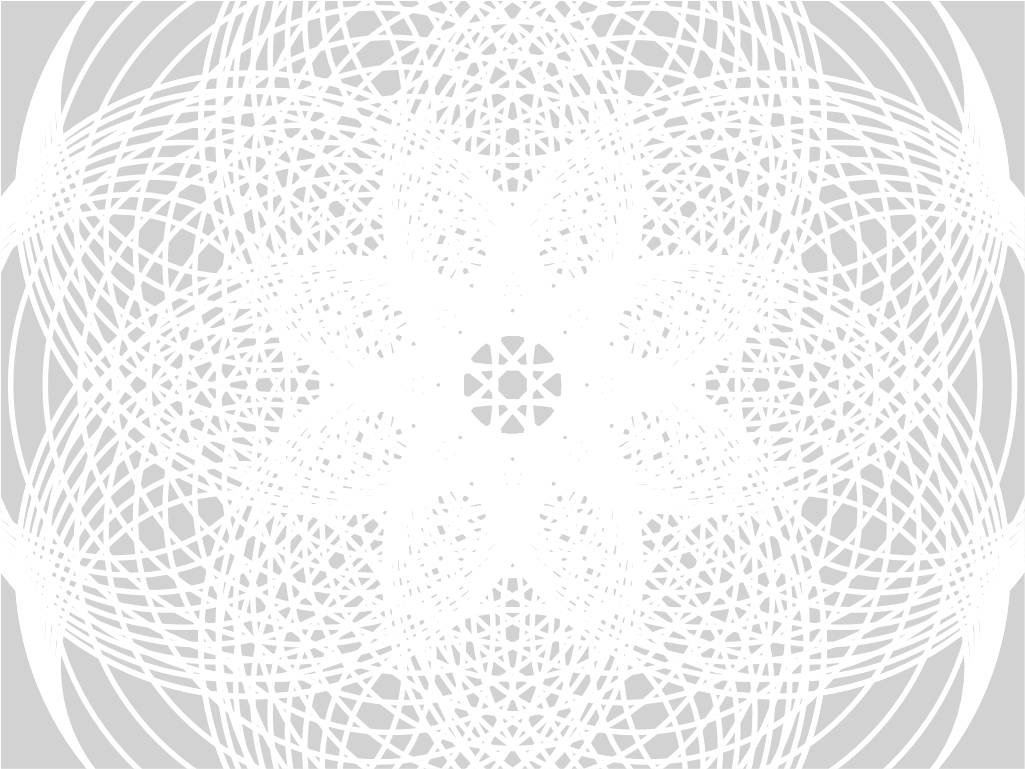
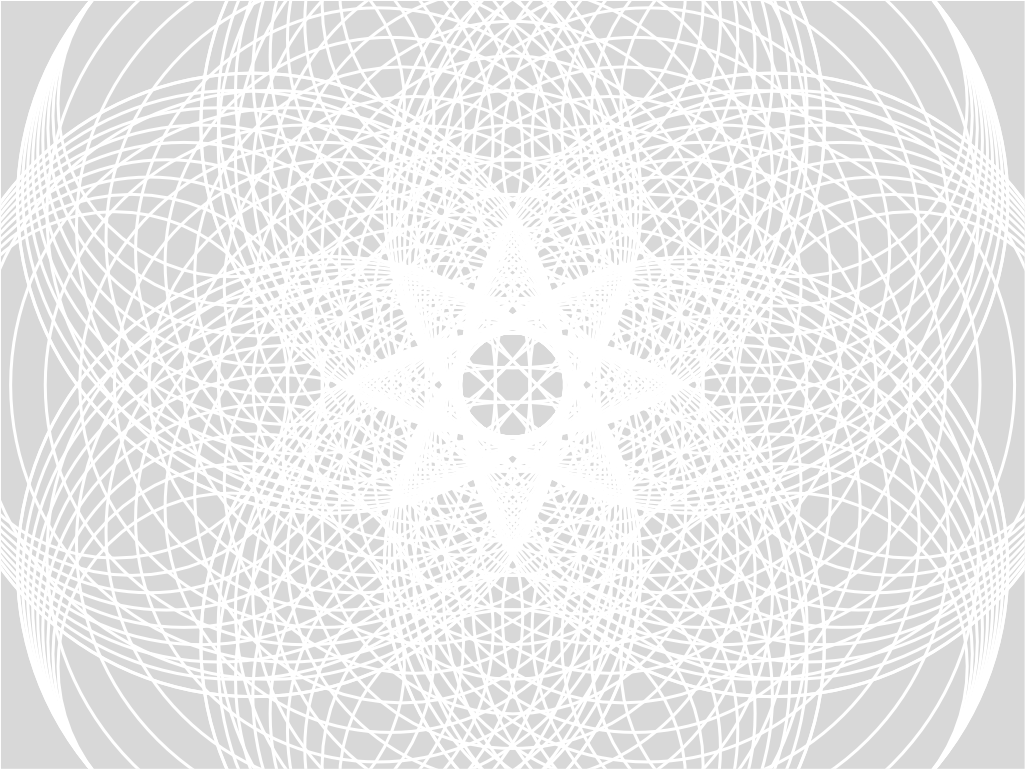
Ending text

Changed region(s): [[0.0, 0.0, 0.999, 1.0], [0.4683, 0.4369, 0.5307, 0.5618]]

diff --git a/src/screens/InterstitialText.jsx b/src/screens/InterstitialText.jsx
@@ -5,7 +5,7 @@ import Overlay from '../components/Overlay.jsx'
 export default function InterstitialText ({ lines }) {
   return (
     <Overlay className="interstitial-text">
-      {lines.map((line, i) => <div key={i}>{line}</div>)}
+      {lines.map((line, i) => <div key={i}>{line || ' '}</div>)}
     </Overlay>
   )
 }

diff --git a/src/index.css b/src/index.css
@@ -647,6 +647,8 @@ button {
   line-height: 1;
   text-align: left;
   text-transform: none;
+  /* Keeps the whitespace-only div of an empty line at full line height */
+  white-space: pre;
 }
 
 /* Game */
